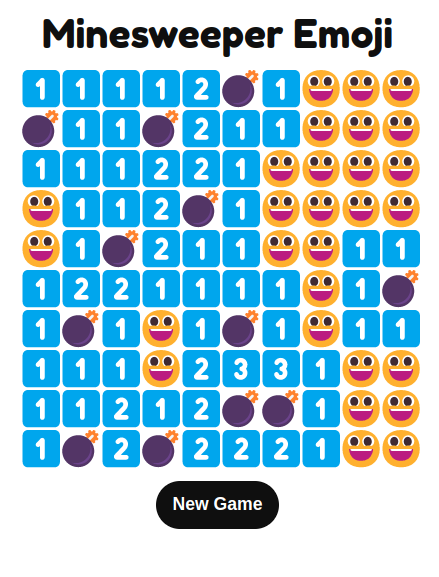
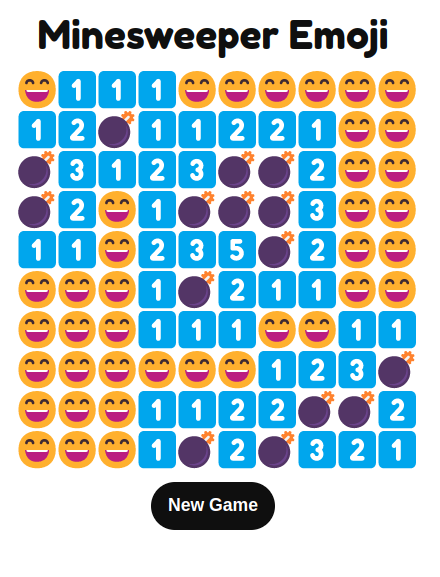
changed winning emoji

diff --git a/scripts/minesweeper-emoji.js b/scripts/minesweeper-emoji.js
@@ -93,7 +93,7 @@ function getNeighbors(cell) {
   });
 }
 
-// What happens every time player clicks on a cell
+// What happens every time the player clicks on a cell
 function revealCell(cell) {
   cell.revealed = true;
   if (cell.mine) {
@@ -116,7 +116,7 @@ function revealCell(cell) {
 }
 
 function gameWon() {
-  DIGITS[0] = "😃";
+  DIGITS[0] = "😄";
   cells.forEach(function (c) {
     c.revealed = true;
   });

diff --git a/README.md b/README.md
@@ -4,7 +4,7 @@
   
 </div>
 
-<h3 align="center">Minesweeper made with 😃 😵 💣 🚩 and ❤ <br><a target="_blank" href="https://minesweeper-emoji.netlify.app/">Try me!</a><h3>
+<h3 align="center">Minesweeper made with 😄 😵 💣 🚩 and ❤ <br><a target="_blank" href="https://minesweeper-emoji.netlify.app/">Try me!</a><h3>
 
 [![Netlify Status](https://api.netlify.com/api/v1/badges/b318a02a-0a7e-483e-a046-547a1a3ac6ae/deploy-status)](https://app.netlify.com/sites/minesweeper-emoji/deploys)
 
@@ -40,7 +40,7 @@ The mine allocation used to be based on probability (ex. each cell had a 15% cha
 ## Screenshots:
   
 #### Win
-<img src="./screenshots/win.png" />
+<img src="./screenshots/win.png?v=2" />
   
 #### Loss  
 <img src="./screenshots/loss.png" />
